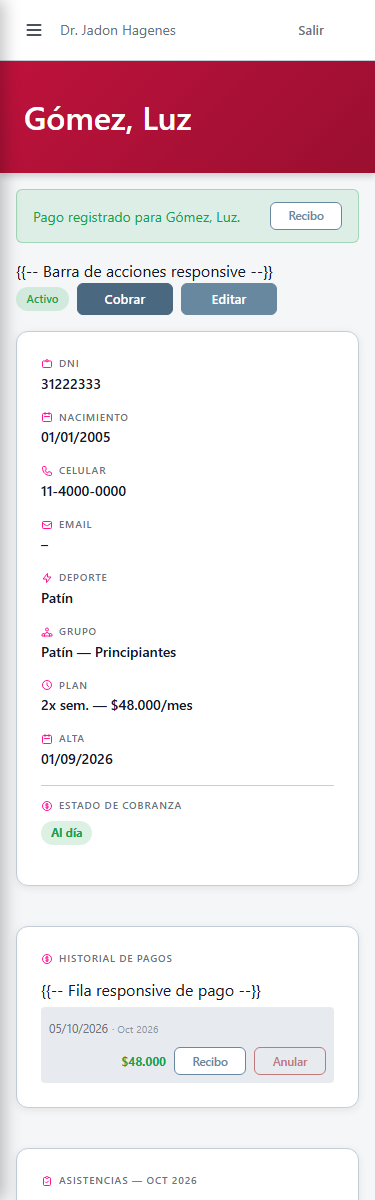
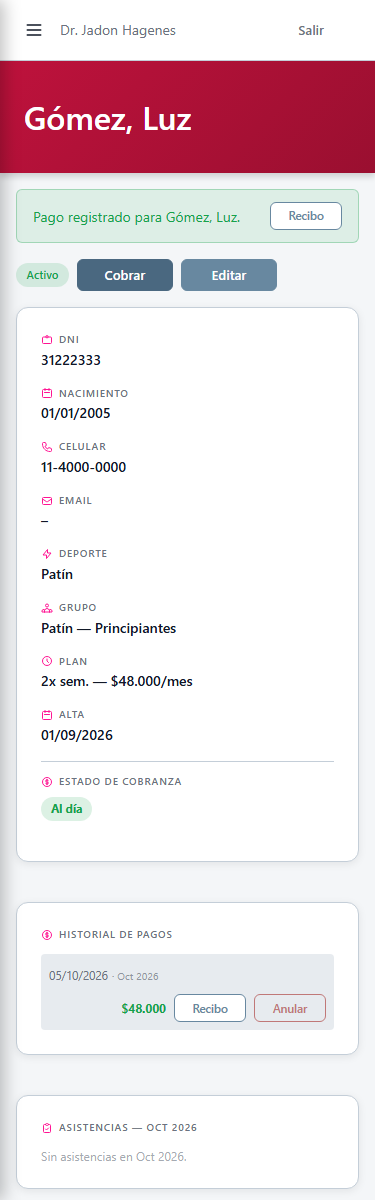
docs(a37): actualizar capturas limpias y maquetas sin comentarios blade

diff --git a/docs/06-pruebas/PRU-02/capturas-a37/ficha-responsive-375.html b/docs/06-pruebas/PRU-02/capturas-a37/ficha-responsive-375.html
@@ -176,7 +176,7 @@
                 <a href="http://gestion-wings/recibos/cuota/1?inline=1" target="_blank" class="ds-btn-row ds-btn-row--sec" style="background:var(--color-surface); flex-shrink:0;">Recibo</a>
             </div>
 
-            {{-- Barra de acciones responsive --}}
+            <!-- Barra de acciones responsive -->
             <div class="flex flex-wrap items-center gap-2 mb-4 justify-start sm:justify-end">
                 <span style="
                     font-size: 0.7rem; font-weight: 600;
@@ -280,7 +280,6 @@
                             Historial de pagos
                         </p>
                         <div style="display:flex; flex-direction:column; gap:5px;">
-                            {{-- Fila responsive de pago --}}
                             <div class="flex flex-wrap sm:flex-nowrap justify-between items-center gap-2 p-2 rounded"
                                  style="background:color-mix(in srgb, var(--color-border) 40%, transparent);">
                                 <div>
@@ -308,7 +307,6 @@
 
             </div>
 
-            {{-- Volver responsive --}}
             <div class="flex flex-wrap items-center gap-2 mt-4 justify-start sm:justify-end">
                 <a class="ds-btn ds-btn--secondary" href="http://gestion-wings/alumnos" role="button">Volver</a>
             </div>
